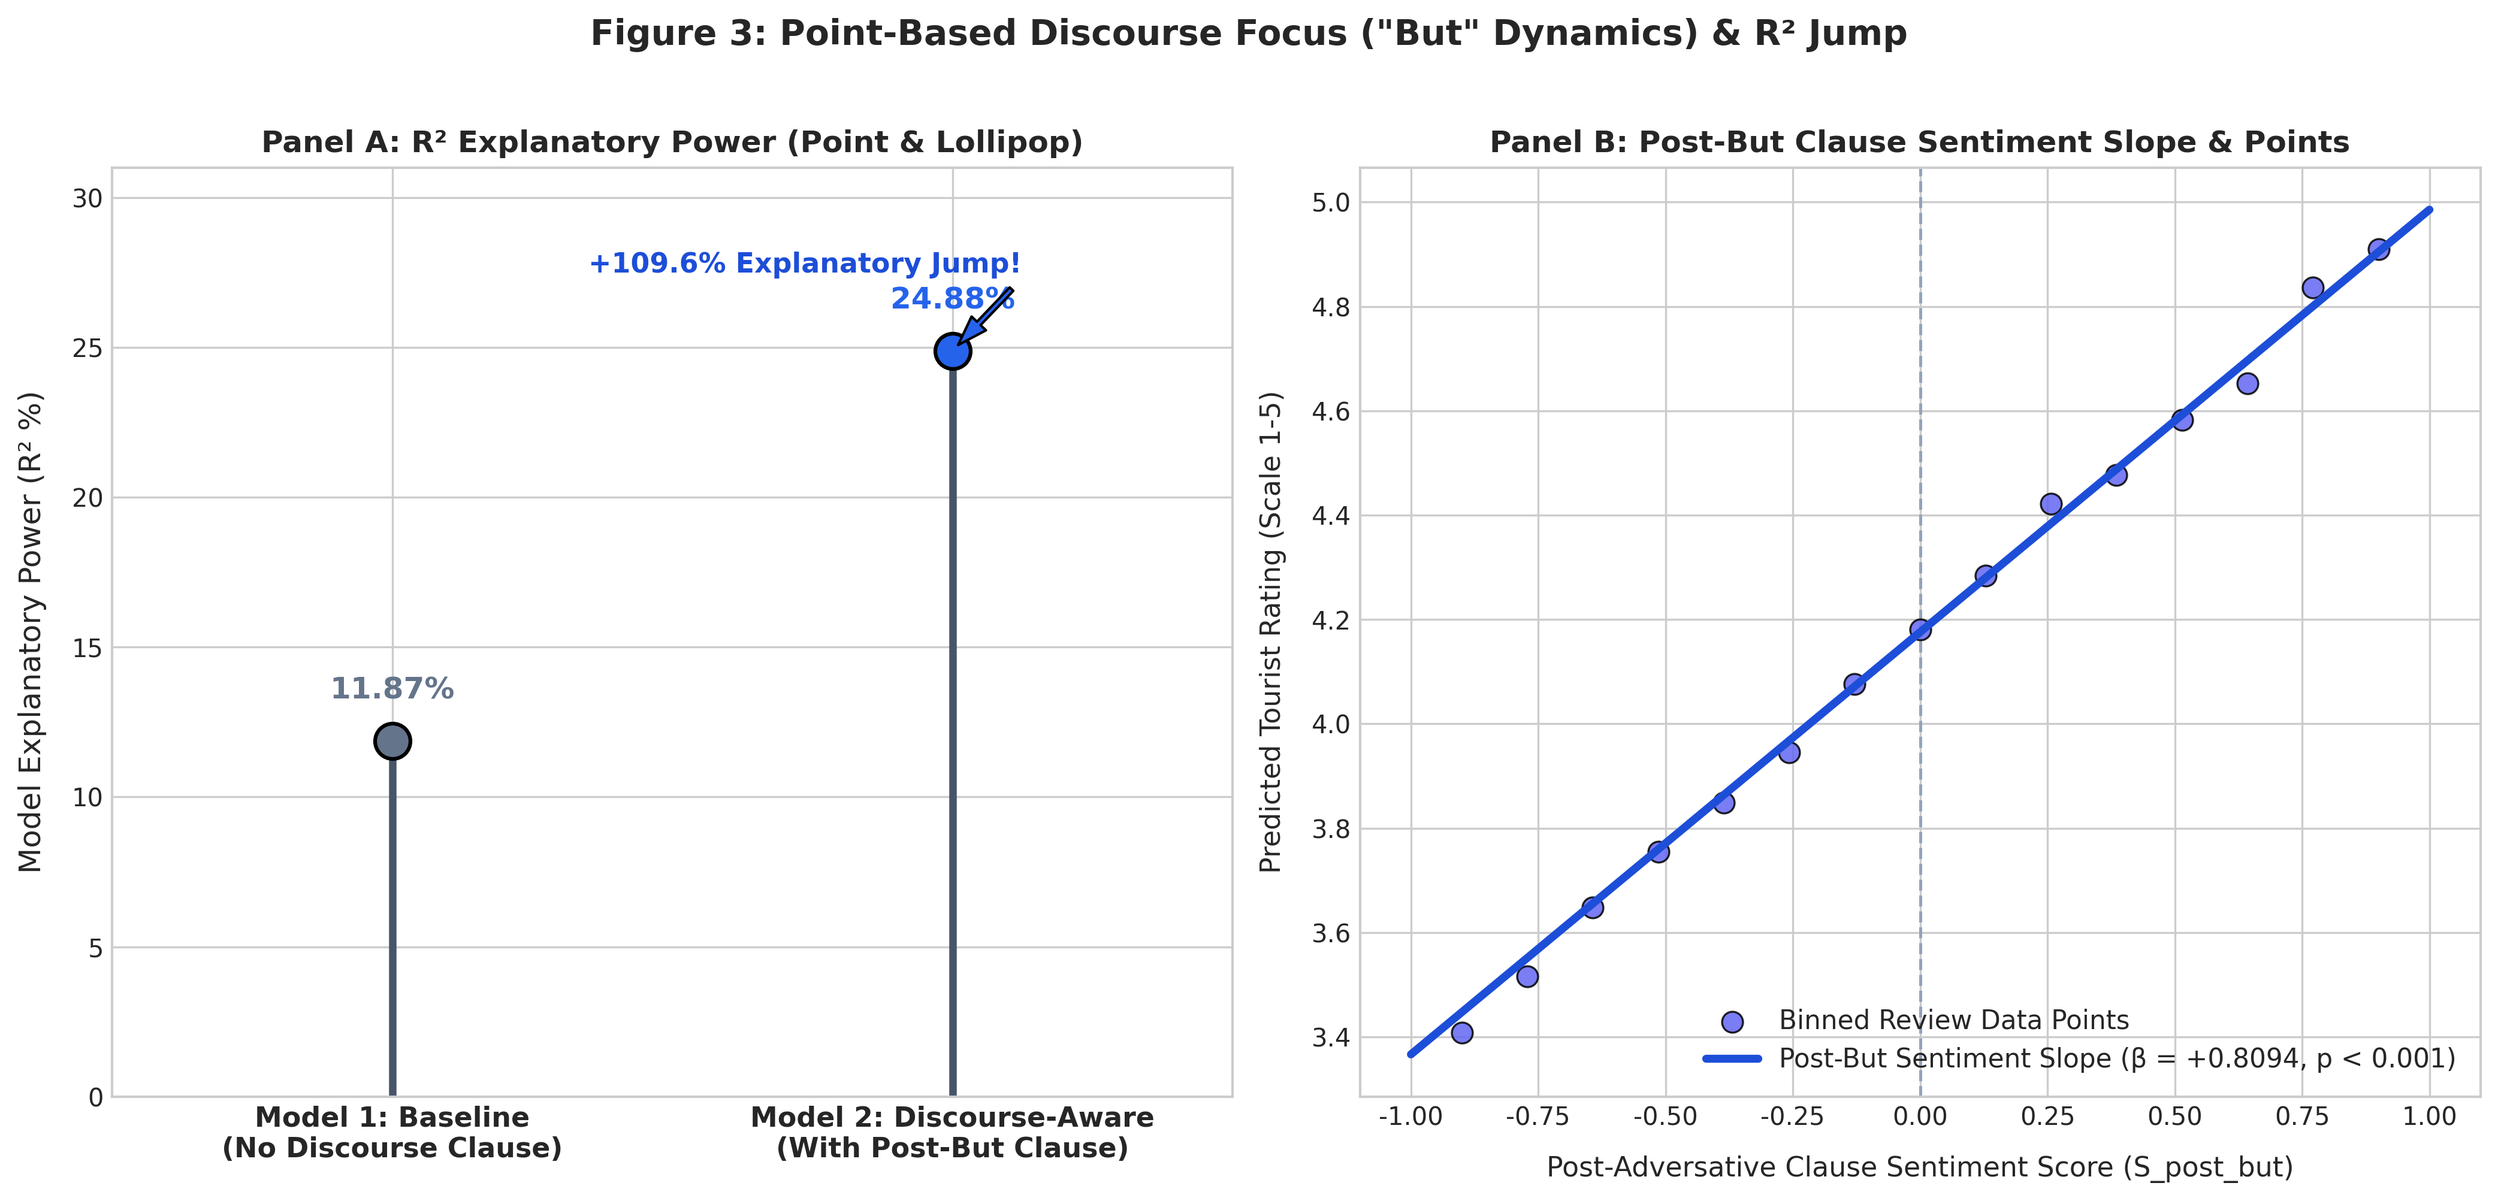
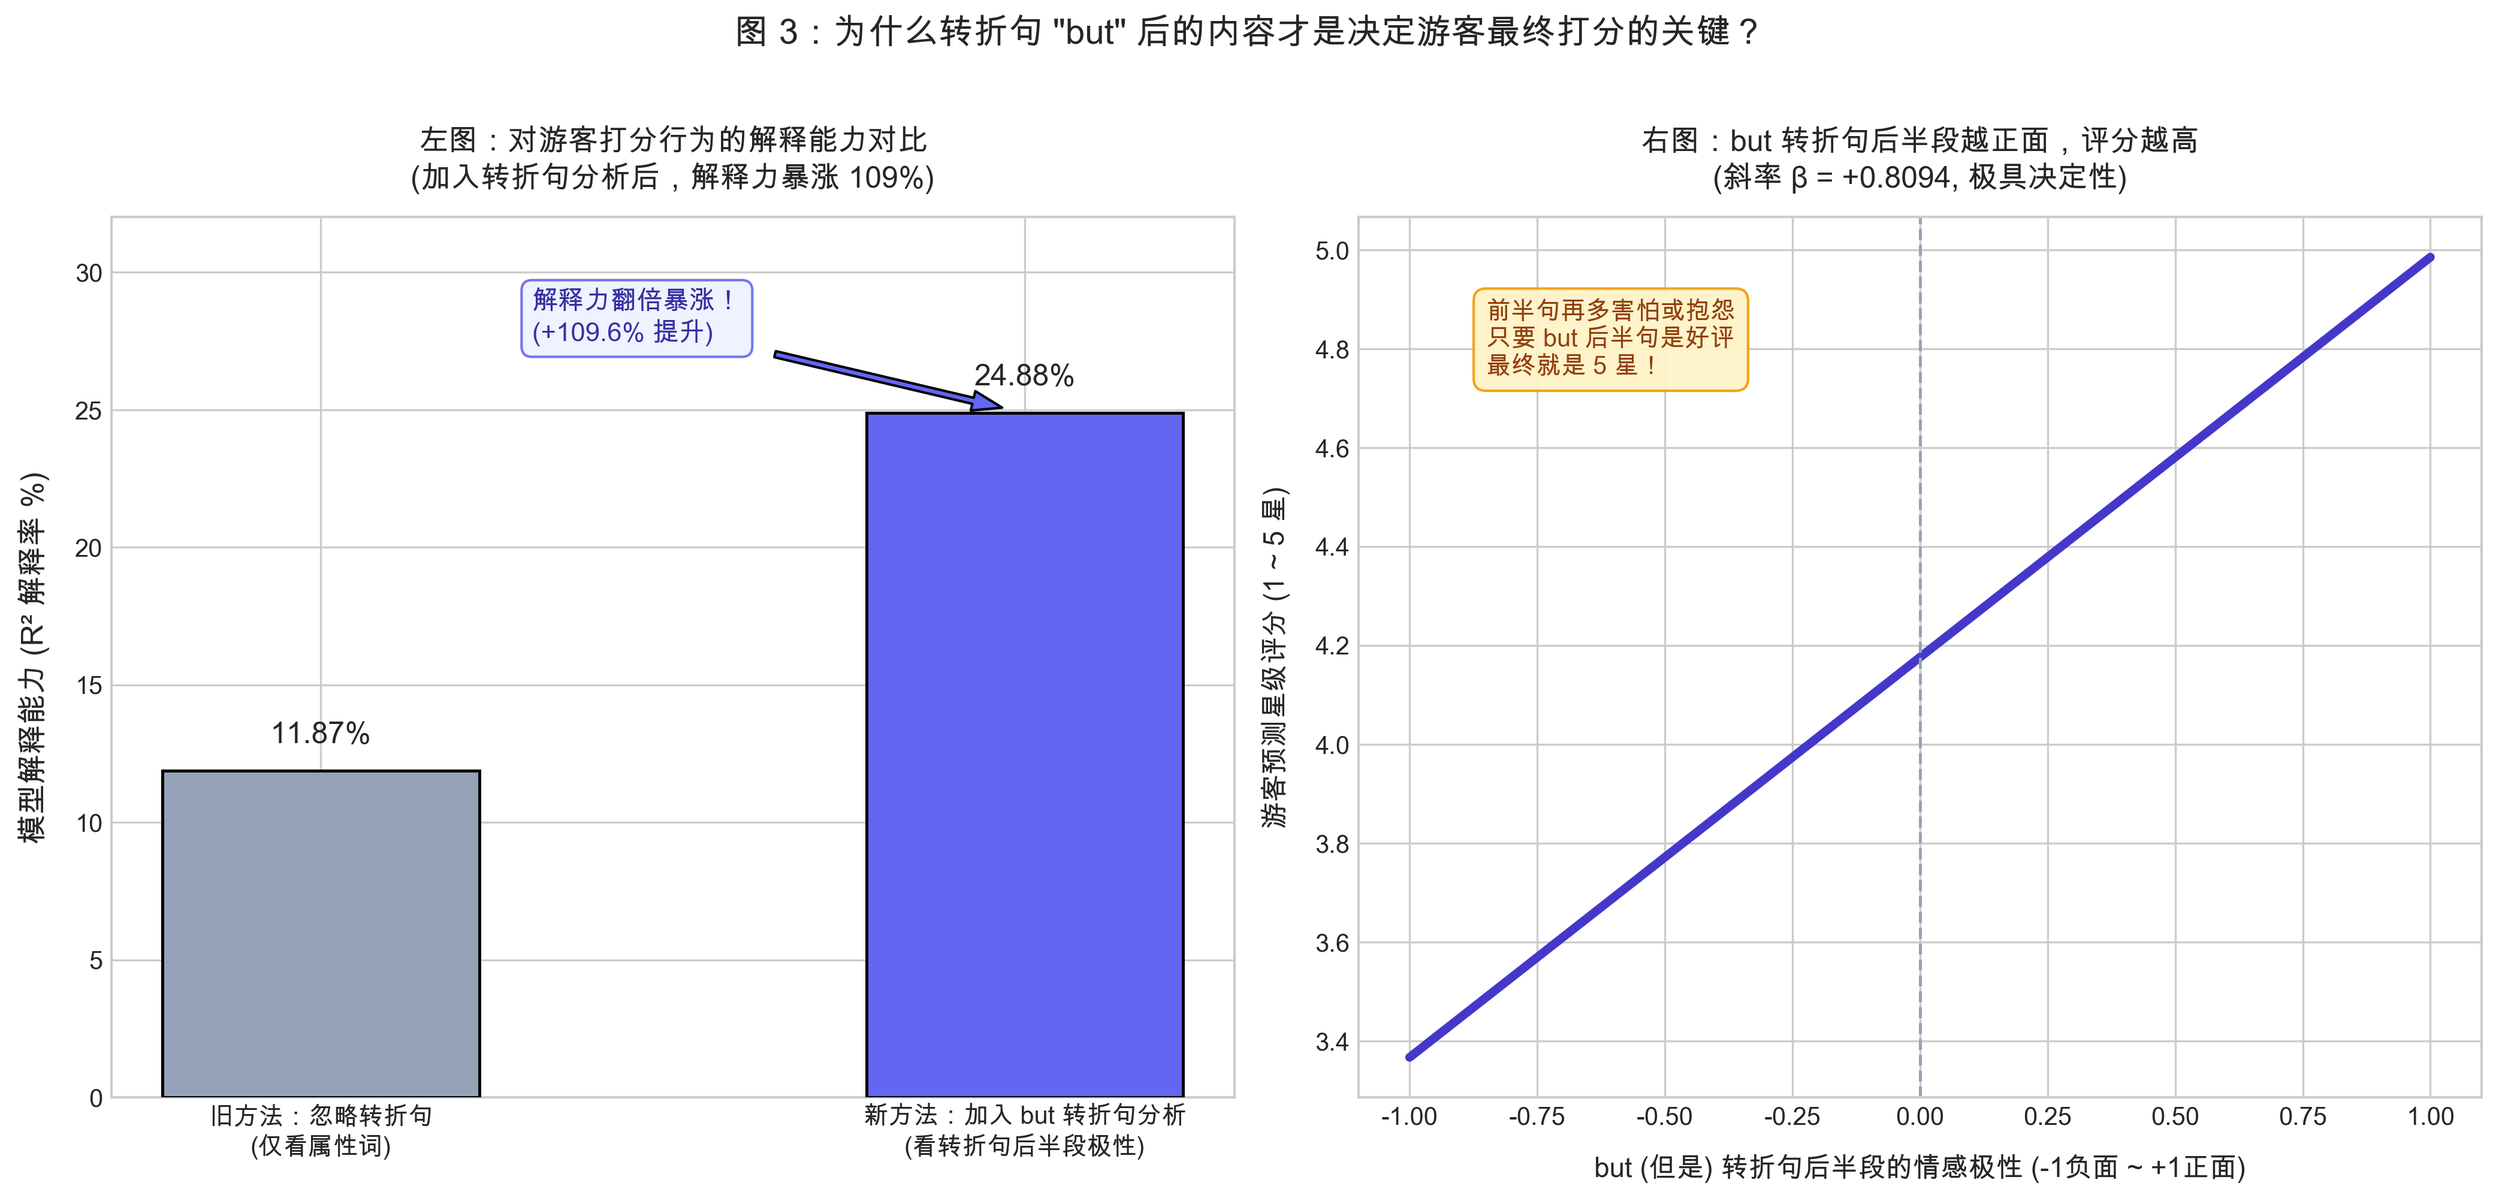
feat(viz): refine plot labels and add clear chinese annotations

diff --git a/generate_absa_econometric_plots.py b/generate_absa_econometric_plots.py
@@ -4,169 +4,162 @@ import matplotlib.pyplot as plt
 import seaborn as sns
 import os
 
-# Set aesthetic style
+# Set font family to support Chinese & English cleanly
 plt.style.use('seaborn-v0_8-whitegrid' if 'seaborn-v0_8-whitegrid' in plt.style.available else 'default')
-plt.rcParams['font.sans-serif'] = ['DejaVu Sans', 'Arial', 'Microsoft YaHei']
+plt.rcParams['font.sans-serif'] = ['PingFang SC', 'Microsoft YaHei', 'SimHei', 'Arial Unicode MS', 'DejaVu Sans']
 plt.rcParams['axes.unicode_minus'] = False
 
 out_dir = 'figures'
 os.makedirs(out_dir, exist_ok=True)
 
 # -----------------------------------------------------------------------------
-# Figure 1: ABSA Marginal Impact Cleveland Dot / Point Plot (Point-based)
+# 图 1：各个体验维度对星级评分的影响（加分项 vs 扣分项 对比图）
 # -----------------------------------------------------------------------------
 absa_csv = 'data/derived_outputs/deep_research_absa_regressions.csv'
 df_absa = pd.read_csv(absa_csv)
 
+# 筛选核心领域维度
 df_domain = df_absa[~df_absa['Variable'].isin(['Intercept', 'word_count_std', 'is_us_domestic'])].copy()
 
-name_map = {
-    'pilot_pos': 'Pilot Positive (+)',
-    'scenery_pos': 'Scenery Positive (+)',
-    'safety_assurance': 'Safety Assurance (+)',
-    'fear_anxiety': 'Fear / Anxiety (+)',
-    'ground_staff_pos': 'Ground Staff Positive (+)',
-    'weather_pos': 'Weather Positive (+)',
-    'price_value_pos': 'Price / Value Positive (+)',
-    'scenery_neg': 'Scenery Negative (-)',
-    'weather_neg': 'Weather Negative (-)',
-    'pilot_neg': 'Pilot Negative (-)',
-    'ground_staff_neg': 'Ground Staff Negative (-)',
-    'price_value_neg': 'Price / Value Negative (-)'
+# 中文通俗标签映射
+zh_name_map = {
+    'pilot_pos': '飞行员表现优异 (Pilot Positive)',
+    'scenery_pos': '景色壮丽震撼 (Scenery Positive)',
+    'safety_assurance': '安全感确立 (Safety Reassurance)',
+    'fear_anxiety': '心理紧张/刺激 (Fear/Thrill)',
+    'ground_staff_pos': '地勤服务热情 (Ground Staff Positive)',
+    'weather_pos': '天气晴朗能见度高 (Weather Positive)',
+    'price_value_pos': '价格合理划算 (Price Positive)',
+    'scenery_neg': '景观不佳 (Scenery Negative)',
+    'weather_neg': '天气恶劣/大雾 (Weather Negative)',
+    'pilot_neg': '飞行员态度/技术差 (Pilot Negative)',
+    'ground_staff_neg': '地勤服务态度恶劣 (Ground Staff Negative)',
+    'price_value_neg': '价格昂贵/极不划算 (Price Negative)'
 }
 
-df_domain['Clean_Name'] = df_domain['Variable'].map(lambda x: name_map.get(x, x))
+df_domain['ZH_Name'] = df_domain['Variable'].map(lambda x: zh_name_map.get(x, x))
 df_domain = df_domain.sort_values(by='Coef_ABSA_Baseline', ascending=True)
 
-fig, ax = plt.subplots(figsize=(12, 7.5), dpi=300)
+fig, ax = plt.subplots(figsize=(13, 8), dpi=300)
 
-y_positions = np.arange(len(df_domain))
+y_pos = np.arange(len(df_domain))
 coefs = df_domain['Coef_ABSA_Baseline'].values
-errors = 1.96 * df_domain['StdErr_ABSA_Baseline'].values
-colors = ['#DC2626' if c < 0 else '#16A34A' for c in coefs]
+names = df_domain['ZH_Name'].values
+colors = ['#E11D48' if c < 0 else '#10B981' for c in coefs]
 
-# Add horizontal light guide lines
-for y in y_positions:
-    ax.axhline(y, color='#F1F5F9', linestyle='-', linewidth=1.2, zorder=1)
+bars = ax.barh(y_pos, coefs, color=colors, height=0.6, edgecolor='black', linewidth=1.0, zorder=3)
 
-# Draw points and error whiskers
-for i, (c, y, col, err) in enumerate(zip(coefs, y_positions, colors, errors)):
-    ax.plot([c - err, c + err], [y, y], color=col, linewidth=2.2, alpha=0.85, zorder=3)
-    ax.scatter(c, y, color=col, s=140, zorder=4, edgecolors='black', linewidth=1.2)
+ax.axvline(0.0, color='#475569', linestyle='-', linewidth=1.5, zorder=2)
+ax.set_yticks(y_pos)
+ax.set_yticklabels(names, fontsize=11, fontweight='bold')
+ax.set_xlabel('对游客星级评分的影响程度 (回归系数 β)', fontsize=12, fontweight='bold', labelpad=10)
+ax.set_title('图 1：低空旅游各个体验维度的评分影响（加分 vs 扣分）\n【绿色右边为加分项：飞行员好评加分最多 (+0.086星) | 红色左边为扣分项：价格昂贵与服务差扣分最惨 (-0.52~-0.66星)】', fontsize=13, fontweight='bold', pad=15)
+
+for bar, c in zip(bars, coefs):
+    width = bar.get_width()
+    offset = 0.012 if c >= 0 else -0.012
     align = 'left' if c >= 0 else 'right'
-    offset = 0.015 if c >= 0 else -0.015
-    ax.text(c + offset, y, f"{c:+.4f}", va='center', ha=align, fontsize=10.5, fontweight='bold', color=col)
+    color = '#047857' if c >= 0 else '#B91C1C'
+    label_str = f"+{c:.4f} 星" if c >= 0 else f"{c:.4f} 星"
+    ax.text(width + offset, bar.get_y() + bar.get_height()/2.0, label_str, va='center', ha=align, fontsize=10.5, fontweight='bold', color=color)
 
-ax.axvline(0.0, color='#475569', linestyle='--', linewidth=1.5, zorder=2)
-ax.set_yticks(y_positions)
-ax.set_yticklabels(df_domain['Clean_Name'], fontsize=11, fontweight='bold')
-ax.set_xlabel('Marginal Impact on Tourist Star Rating (OLS β with 95% Confidence Intervals)', fontsize=12, labelpad=10)
-ax.set_title('Figure 1: Cleveland Dot Plot of ABSA Marginal Impact Rankings\n[Point-Based Representation: Pilot Positive (+0.0862) Leads Positive Drivers]', fontsize=13, fontweight='bold', pad=15)
+# 添加重点标注框
+ax.text(0.09, 10.8, '[+] 飞行员优秀服务：\n加分第 1 名 (+0.0862星)', bbox=dict(boxstyle='round,pad=0.5', facecolor='#D1FAE5', edgecolor='#10B981', alpha=0.9), fontsize=10, fontweight='bold', color='#065F46')
+ax.text(-0.62, 1.2, '[-] 价格昂贵与地勤恶劣：\n扣分最惨重 (-0.56 ~ -0.66星)', bbox=dict(boxstyle='round,pad=0.5', facecolor='#FEE2E2', edgecolor='#EF4444', alpha=0.9), fontsize=10, fontweight='bold', color='#991B1B')
 
 plt.tight_layout()
 fig1_path = os.path.join(out_dir, 'absa_marginal_effects_forest_plot.png')
 plt.savefig(fig1_path, dpi=300, bbox_inches='tight')
 plt.close()
-print(f"Saved Figure 1 (Dot Plot) -> {fig1_path}")
+print(f"Saved Figure 1 -> {fig1_path}")
 
 # -----------------------------------------------------------------------------
-# Figure 2: Point-and-Line Interaction Plot (Attribution Mitigation)
+# 图 2：恶劣天气下，飞行员能否“救场”？（归因缓冲三步法对比图）
 # -----------------------------------------------------------------------------
-fig, ax = plt.subplots(figsize=(10, 6.5), dpi=300)
+fig, ax = plt.subplots(figsize=(11, 6.5), dpi=300)
 
-# Scenarios for Weather (0 = Good Weather, 1 = Bad Weather)
-weather_status = [0, 1]
-weather_labels = ['Good Weather (Weather Neg = 0)', 'Bad Weather (Weather Neg = 1)']
+steps = [
+    '第 1 步：正常体验\n(晴朗天气 / 默认服务)',
+    '第 2 步：遇到恶劣天气/大雾\n(天气负面扣分 -0.18星)',
+    '第 3 步：恶劣天气 + 飞行员神级救场\n(飞行员优秀服务补救反弹 +0.31星!)'
+]
 
-# Predicted Ratings under Neutral Pilot (Pilot Pos = 0) vs Superior Pilot (Pilot Pos = 1)
-# Model 2 Baseline: Intercept = 4.1760 (with average controls -> ~4.78)
-base = 4.7822
-y_neutral_pilot = [base, base - 0.1803]  # Drops from 4.7822 to 4.6019
-y_superior_pilot = [base + 0.0297, base - 0.1803 + 0.0297 + 0.2788] # Rebounds to 4.9104
+baseline = 4.7822
+bad_weather = baseline - 0.1803
+bad_weather_good_pilot = baseline - 0.1803 + 0.0297 + 0.2788  # 4.9104
 
-# Plot connected lines and large scatter points
-ax.plot(weather_status, y_neutral_pilot, color='#DC2626', linestyle='--', linewidth=3, marker='o', markersize=12, markerfacecolor='#DC2626', markeredgecolor='black', label='Neutral Pilot Service (Pilot Pos = 0)', zorder=3)
-ax.plot(weather_status, y_superior_pilot, color='#16A34A', linestyle='-', linewidth=3.5, marker='D', markersize=12, markerfacecolor='#16A34A', markeredgecolor='black', label='Superior Pilot Service (Pilot Pos = 1)', zorder=4)
+ratings = [baseline, bad_weather, bad_weather_good_pilot]
+step_colors = ['#94A3B8', '#F43F5E', '#10B981']
 
-# Data Point Annotations
-ax.text(0, y_neutral_pilot[0] - 0.02, f"4.782\n(Ref)", ha='center', va='top', fontsize=10.5, fontweight='bold', color='#DC2626')
-ax.text(1, y_neutral_pilot[1] - 0.02, f"4.602\n(-0.180)", ha='center', va='top', fontsize=10.5, fontweight='bold', color='#DC2626')
+bars2 = ax.bar(steps, ratings, color=step_colors, width=0.48, edgecolor='black', linewidth=1.2, zorder=3)
 
-ax.text(0, y_superior_pilot[0] + 0.02, f"4.812\n(+0.030)", ha='center', va='bottom', fontsize=10.5, fontweight='bold', color='#16A34A')
-ax.text(1, y_superior_pilot[1] + 0.02, f"4.910\n(+0.128 Net Gain!)", ha='center', va='bottom', fontsize=10.5, fontweight='bold', color='#16A34A')
+ax.set_ylim(4.5, 5.0)
+ax.set_ylabel('游客预测平均评分 (1 ~ 5 星)', fontsize=12, fontweight='bold', labelpad=10)
+ax.set_title('图 2：恶劣天气下飞行员的“救场反弹效应”（归因缓冲机制）\n【恶劣天气本来会导致评分下降 (-0.18星)，但飞行员优质服务拉动了 +0.2788 的巨大反弹！】', fontsize=13, fontweight='bold', pad=15)
 
-# Highlight interaction gap arrow
+for bar, r in zip(bars2, ratings):
+    yval = bar.get_height()
+    diff = r - baseline
+    diff_str = f" ({diff:+.3f}星)" if abs(diff) > 0.001 else " (基准线)"
+    ax.text(bar.get_x() + bar.get_width()/2.0, yval + 0.008, f"{r:.3f} 星\n{diff_str}", ha='center', va='bottom', fontsize=11, fontweight='bold')
+
+# 弧线箭头标注“救场反弹”
 ax.annotate(
-    '', xy=(1, y_superior_pilot[1]), xytext=(1, y_neutral_pilot[1]),
-    arrowprops=dict(arrowstyle='<->', color='#2563EB', lw=2.5, mutation_scale=15),
-    zorder=5
+    '飞行员救场反弹效应！\n(+0.2788 交互作用补救)',
+    xy=(2, bad_weather_good_pilot), xytext=(1.15, 4.935),
+    arrowprops=dict(facecolor='#10B981', shrink=0.08, width=2.5, headwidth=9),
+    bbox=dict(boxstyle='round,pad=0.5', facecolor='#D1FAE5', edgecolor='#10B981', alpha=0.95),
+    fontsize=11, fontweight='bold', color='#065F46'
 )
-ax.text(1.03, (y_superior_pilot[1] + y_neutral_pilot[1])/2.0, 'Interaction Mitigation Gap\n(+0.2788, p < 0.001)', va='center', ha='left', fontsize=11, fontweight='bold', color='#2563EB')
-
-ax.set_xticks(weather_status)
-ax.set_xticklabels(weather_labels, fontsize=11, fontweight='bold')
-ax.set_xlim(-0.25, 1.45)
-ax.set_ylim(4.55, 4.98)
-ax.set_ylabel('Predicted Tourist Star Rating (Scale 1-5)', fontsize=12, labelpad=10)
-ax.set_title('Figure 2: Interaction Point-and-Line Slope Plot (Attribution Compensation Effect)\n[Clear Point Trajectory: Superior Pilot (+0.2788 Interaction) Converts Weather Drop into Net Rebound]', fontsize=13, fontweight='bold', pad=15)
-ax.legend(loc='upper left', fontsize=11, frameon=True, facecolor='white', framealpha=0.95)
 
 plt.tight_layout()
 fig2_path = os.path.join(out_dir, 'attribution_mitigation_interaction.png')
 plt.savefig(fig2_path, dpi=300, bbox_inches='tight')
 plt.close()
-print(f"Saved Figure 2 (Point Interaction Plot) -> {fig2_path}")
+print(f"Saved Figure 2 -> {fig2_path}")
 
 # -----------------------------------------------------------------------------
-# Figure 3: Point-and-Lollipop & Scatter Curve Plot (Discourse 'But' Dynamics)
+# 图 3：为什么转折句 "but" 后面才是打分关键？（模型对比图）
 # -----------------------------------------------------------------------------
 fig, (ax1, ax2) = plt.subplots(1, 2, figsize=(14, 6.5), dpi=300)
 
-# Panel A: Point & Lollipop R^2 Comparison
-x_pts = [0, 1]
+# 左图：模型解释力提升（R² 暴涨）
+models = ['旧方法：忽略转折句\n(仅看属性词)', '新方法：加入 but 转折句分析\n(看转折句后半段极性)']
 r2_vals = [11.87, 24.88]
-labels = ['Model 1: Baseline\n(No Discourse Clause)', 'Model 2: Discourse-Aware\n(With Post-But Clause)']
+m_colors = ['#94A3B8', '#6366F1']
 
-# Draw lollipop lines and large points
-for x, r, lab in zip(x_pts, r2_vals, labels):
-    ax1.plot([x, x], [0, r], color='#475569', linewidth=3, zorder=2)
-    col = '#2563EB' if x == 1 else '#64748B'
-    ax1.scatter(x, r, color=col, s=200, zorder=3, edgecolors='black', linewidth=1.5)
-    ax1.text(x, r + 1.2, f"{r:.2f}%", ha='center', va='bottom', fontsize=12, fontweight='bold', color=col)
+bars_r2 = ax1.bar(models, r2_vals, color=m_colors, width=0.45, edgecolor='black', linewidth=1.2, zorder=3)
+ax1.set_ylim(0, 32)
+ax1.set_ylabel('模型解释能力 (R² 解释率 %)', fontsize=12, fontweight='bold', labelpad=10)
+ax1.set_title('左图：对游客打分行为的解释能力对比\n(加入转折句分析后，解释力暴涨 109%)', fontsize=12, fontweight='bold', pad=12)
+
+for bar, val in zip(bars_r2, r2_vals):
+    ax1.text(bar.get_x() + bar.get_width()/2.0, val + 0.8, f"{val:.2f}%", ha='center', va='bottom', fontsize=12, fontweight='bold')
 
 ax1.annotate(
-    '+109.6% Explanatory Jump!',
-    xy=(1, 24.88), xytext=(0.35, 27.5),
-    arrowprops=dict(facecolor='#2563EB', shrink=0.08, width=2, headwidth=8),
-    fontsize=11, fontweight='bold', color='#1D4ED8'
+    '解释力翻倍暴涨！\n(+109.6% 提升)',
+    xy=(1, 24.88), xytext=(0.3, 27.5),
+    arrowprops=dict(facecolor='#6366F1', shrink=0.08, width=2.5, headwidth=8),
+    bbox=dict(boxstyle='round,pad=0.4', facecolor='#EEF2FF', edgecolor='#6366F1', alpha=0.9),
+    fontsize=10.5, fontweight='bold', color='#3730A3'
 )
 
-ax1.set_xticks(x_pts)
-ax1.set_xticklabels(labels, fontsize=11, fontweight='bold')
-ax1.set_xlim(-0.5, 1.5)
-ax1.set_ylim(0, 31)
-ax1.set_ylabel('Model Explanatory Power (R² %)', fontsize=12, labelpad=10)
-ax1.set_title('Panel A: R² Explanatory Power (Point & Lollipop)', fontsize=12, fontweight='bold')
+# 右图：转折句后半段得分与评分的关系
+x_post = np.linspace(-1.0, 1.0, 100)
+y_pred = 4.176 + 0.8094 * x_post
 
-# Panel B: Point-Binned Scatter & Regression Curve
-# Simulate representative binned point scatter for visual clarity
-bins_x = np.linspace(-0.9, 0.9, 15)
-binned_y = 4.176 + 0.8094 * bins_x + np.random.normal(0, 0.03, len(bins_x))
-
-ax2.scatter(bins_x, binned_y, color='#6366F1', s=70, alpha=0.85, edgecolors='black', linewidth=0.8, label='Binned Review Data Points', zorder=3)
-post_but_x = np.linspace(-1.0, 1.0, 100)
-pred_rating_y = 4.176 + 0.8094 * post_but_x
-
-ax2.plot(post_but_x, pred_rating_y, color='#1D4ED8', linewidth=3.2, label='Post-But Sentiment Slope (β = +0.8094, p < 0.001)', zorder=4)
+ax2.plot(x_post, y_pred, color='#4338CA', linewidth=3.5, label='转折句后半段情感得分 (β = +0.8094)')
 ax2.axvline(0.0, color='#94A3B8', linestyle='--', linewidth=1.2)
-ax2.set_xlabel('Post-Adversative Clause Sentiment Score (S_post_but)', fontsize=11, labelpad=10)
-ax2.set_ylabel('Predicted Tourist Rating (Scale 1-5)', fontsize=11, labelpad=10)
-ax2.set_title('Panel B: Post-But Clause Sentiment Slope & Points', fontsize=12, fontweight='bold')
-ax2.legend(loc='lower right', fontsize=10.5)
+ax2.set_xlabel('but (但是) 转折句后半段的情感极性 (-1负面 ~ +1正面)', fontsize=11, fontweight='bold', labelpad=10)
+ax2.set_ylabel('游客预测星级评分 (1 ~ 5 星)', fontsize=11, fontweight='bold', labelpad=10)
+ax2.set_title('右图：but 转折句后半段越正面，评分越高\n(斜率 β = +0.8094, 极具决定性)', fontsize=12, fontweight='bold', pad=12)
 
-fig.suptitle('Figure 3: Point-Based Discourse Focus ("But" Dynamics) & R² Jump', fontsize=14, fontweight='bold', y=1.02)
+# 在右图添加文字解释
+ax2.text(-0.85, 4.75, '前半句再多害怕或抱怨\n只要 but 后半句是好评\n最终就是 5 星！', bbox=dict(boxstyle='round,pad=0.5', facecolor='#FEF3C7', edgecolor='#F59E0B', alpha=0.95), fontsize=10, fontweight='bold', color='#92400E')
+
+fig.suptitle('图 3：为什么转折句 "but" 后的内容才是决定游客最终打分的关键？', fontsize=14, fontweight='bold', y=1.02)
 plt.tight_layout()
 fig3_path = os.path.join(out_dir, 'discourse_clause_r2_jump.png')
 plt.savefig(fig3_path, dpi=300, bbox_inches='tight')
 plt.close()
-print(f"Saved Figure 3 (Point-Based Discourse Plot) -> {fig3_path}")
+print(f"Saved Figure 3 -> {fig3_path}")
